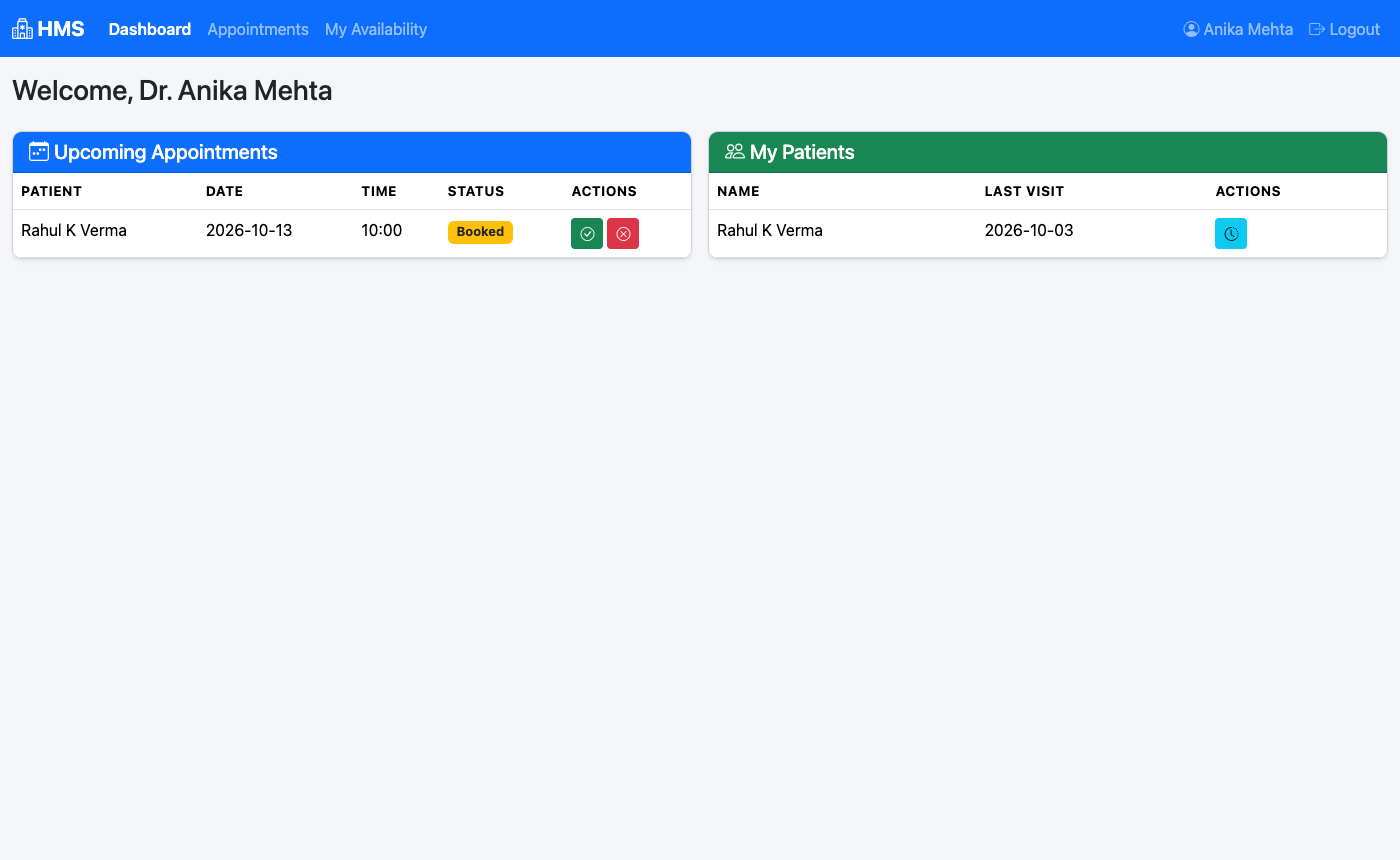
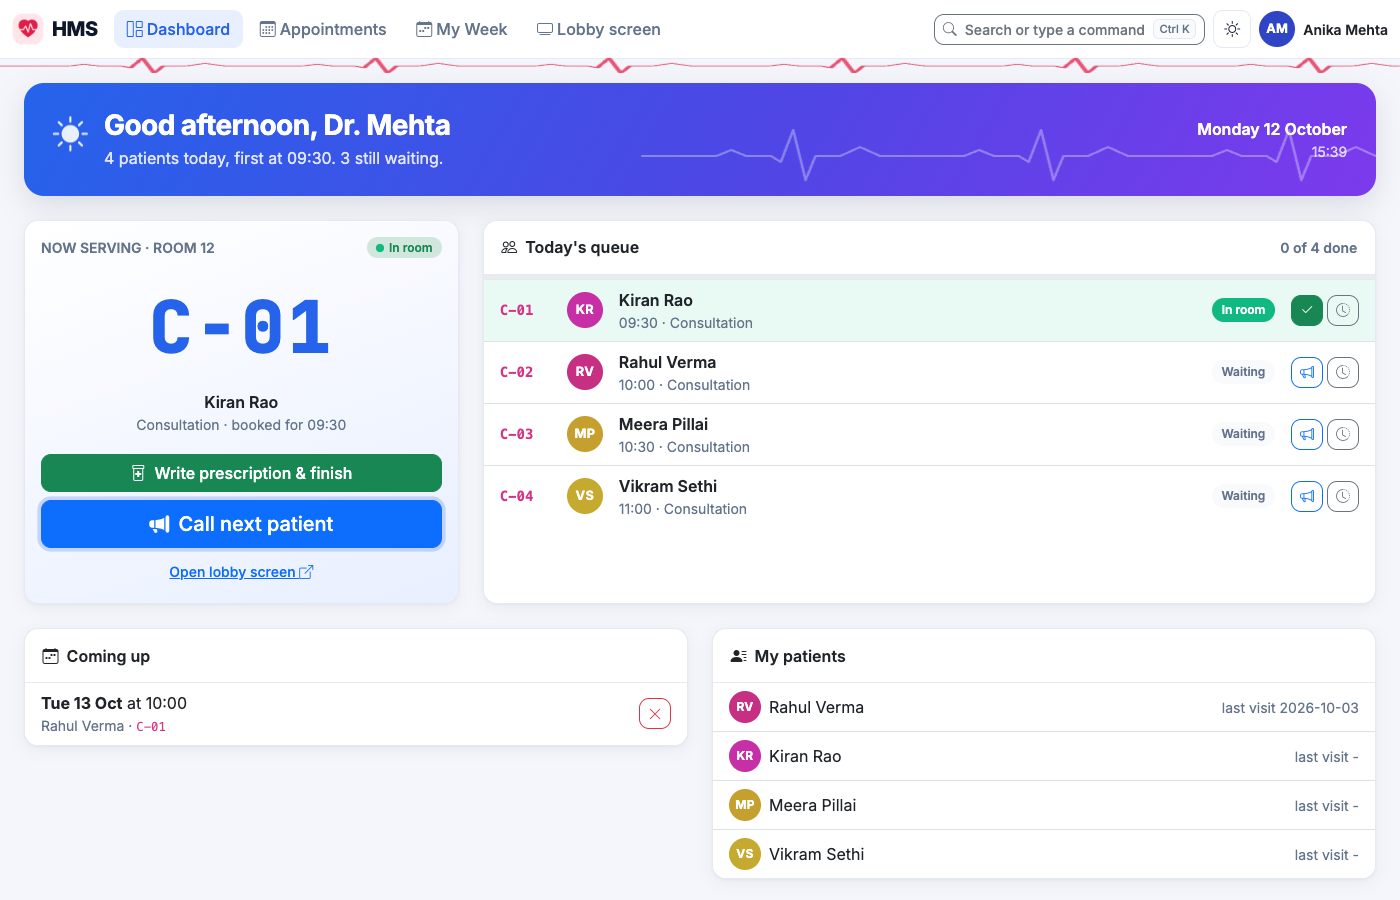
update readme with demo gifs and new screenshots

diff --git a/README.md b/README.md
@@ -7,70 +7,98 @@
 ![Redis](https://img.shields.io/badge/Redis-cache%20%2B%20broker-DC382D?logo=redis&logoColor=white)
 ![Celery](https://img.shields.io/badge/Celery-background%20jobs-37814A?logo=celery&logoColor=white)
 
-A full-stack hospital management app where **admins** manage doctors and patients, **doctors** publish their availability and record treatments, and **patients** find a doctor, book a slot and keep track of their medical history.
+A hospital app that follows a visit from **symptom to seat**. A patient taps where it hurts, books a free slot, gets a boarding-pass style ticket with a QR code, and watches their place in the queue live. On the day, the waiting-room TV flips their token up like an airport board when the doctor calls them in.
 
-This is version 2 of my Hospital Management System. The first version was a classic server-rendered Flask app. V2 rebuilds it as a **single-page app**: a Vue 3 frontend talking to a Flask REST API with JWT auth, Redis caching and Celery jobs for reminders, monthly reports and CSV exports.
+It has three roles. **Patients** book and track visits, **doctors** paint their weekly hours, run their queue and write prescriptions, and **admins** manage everyone. The frontend is a Vue 3 single-page app talking to a Flask REST API, with JWT auth, Redis caching and Celery jobs for reminders, monthly reports and CSV exports.
 
 <p align="center">
-  <img src="docs/screenshots/patient-dashboard.png" alt="Patient dashboard" width="900">
+  <img src="docs/demo/booking-flow.gif" alt="Booking from the body map to the boarding pass" width="880">
 </p>
 
-## Features
+## Highlights
 
-**Admin**
-- Dashboard with live counts of doctors, patients and appointments by status
-- Add, edit, deactivate and reactivate doctors
-- Search across doctors, patients and departments
-- View any patient's full treatment history and deactivate accounts
+| | |
+|---|---|
+| 🧍 **"Where does it hurt?"** | Patients tap a region on a body map and pick a symptom, and the app suggests the right department (knee → Orthopedics, chest pain → Cardiology, anything for a child → Pediatrics) and shows who's free. |
+| 🎫 **Boarding-pass tickets** | Every booking gets a token like `C-04`, a QR code and a gate (room). Tap the pass to flip it for prep notes. On the day it shows *"Now serving C-02 · 1 ahead of you · ~15 min"* and lights up when it's your turn. |
+| 📺 **Lobby "Now Serving" screen** | A full-screen board for the waiting-room TV at `/lobby`. When a doctor calls the next patient, the token appears full-screen and then flips into place split-flap style, with an optional chime and spoken announcement. No patient names are shown. |
+| 💓 **Heartbeat branding** | An ECG line runs under the navbar and spikes when something happens (a booking, a patient called). Loaders draw an ECG trace and the logo beats. |
+| 🗓 **Paint your week** | Doctors drag across a weekly calendar grid to set their hours, with presets for weekdays and mornings. Patients see each doctor's week as a heatmap of free slots, and a slot booked by someone else while you're looking fades out as *just taken*. |
+| ℞ **Prescription pad** | Treatments are written on a letterhead pad. Signing draws the doctor's signature in handwriting, and patients can open any prescription and save it as a PDF. |
+| 🚇 **Health journey map** | A patient's history is a subway-style line with one station per visit, coloured by department. Tap a station to see the diagnosis and prescription. |
+| ⌨ **Command palette + voice** | Press <kbd>Ctrl</kbd>+<kbd>K</kbd> and type (or say) things like *"book cardiology tomorrow at 2pm"*, *"cancel my next"*, *"call next"*, *"add slot friday 9-1"* or *"patient meera"*. |
+| ✨ **Small touches** | A time-of-day greeting (*"Good morning, Dr. Mehta, 6 patients today, first at 9:30"*), an auto/light/dark theme that follows the clock, count-up stats, toast notifications, page transitions, and confetti when a doctor finishes their last patient. All motion switches off for people who prefer reduced motion. |
 
-**Doctor**
-- See upcoming appointments and the list of their own patients
-- Open availability slots for the next 7 days (patients can only book inside them)
-- Complete an appointment by recording diagnosis, prescription, notes and next visit
-- Monthly activity report emailed on the 1st of every month
-
-**Patient**
-- Register, log in and manage their profile and password
-- Browse departments, search doctors and see their open slots
-- Book, reschedule and cancel appointments, with clash checks on both sides
-- Full treatment history with one-click **CSV export** (runs as a Celery job)
-- Morning reminder email on the day of an appointment
+<p align="center">
+  <img src="docs/demo/lobby-screen.gif" alt="Doctor calls the next patient and the lobby board flips" width="880">
+</p>
 
 ## Screenshots
 
-| Admin dashboard | Booking a slot |
+| Patient dashboard with live tickets | Where does it hurt? |
 |---|---|
-| ![Admin dashboard](docs/screenshots/admin-dashboard.png) | ![Booking](docs/screenshots/booking.png) |
-| **Doctor dashboard** | **Recording a treatment** |
-| ![Doctor dashboard](docs/screenshots/doctor-dashboard.png) | ![Treatment](docs/screenshots/treatment.png) |
-| **Treatment history + CSV export** | **Doctor availability** |
-| ![History](docs/screenshots/patient-history.png) | ![Availability](docs/screenshots/doctor-availability.png) |
+| ![Patient dashboard](docs/screenshots/patient-dashboard.png) | ![Body map](docs/screenshots/body-map.png) |
+| **Week heatmap and slot picker** | **A slot taken by someone else, live** |
+| ![Slot picker](docs/screenshots/slot-picker.png) | ![Just taken](docs/screenshots/just-taken.png) |
+| **Doctor's queue** | **End of the day** |
+| ![Doctor dashboard](docs/screenshots/doctor-dashboard.png) | ![Doctor done](docs/screenshots/doctor-done.png) |
+| **Writing a prescription** | **Paint your week** |
+| ![Prescription](docs/screenshots/rx-signing.png) | ![Paint week](docs/screenshots/paint-week.png) |
+| **Health journey** | **Command palette** |
+| ![Journey](docs/screenshots/journey.png) | ![Palette](docs/screenshots/palette.png) |
+| **Lobby screen** | **Admin, dark mode** |
+| ![Lobby](docs/screenshots/lobby.png) | ![Admin dark](docs/screenshots/admin-dark.png) |
 
 <details>
-<summary>Login and mobile view</summary>
+<summary>More: login, ticket back, booking confirmation, prescription view, mobile</summary>
 
 <p>
-  <img src="docs/screenshots/login.png" alt="Login" width="600">
-  <img src="docs/screenshots/mobile-dashboard.png" alt="Mobile" width="260">
+  <img src="docs/screenshots/login.png" alt="Login" width="640">
+  <img src="docs/screenshots/booked.png" alt="Booked" width="640">
+  <img src="docs/screenshots/rx-view.png" alt="Prescription view" width="640">
+  <img src="docs/screenshots/ticket-back.png" alt="Ticket back" width="480">
+  <img src="docs/screenshots/mobile-dashboard.png" alt="Mobile dashboard" width="240">
+  <img src="docs/screenshots/mobile-bodymap.png" alt="Mobile body map" width="240">
 </p>
 </details>
+
+## Everything each role can do
+
+**Patient**
+- Register, log in, edit their profile and change their password
+- Find a doctor from the body map or browse by department, with each doctor's next free slot shown on their card
+- Book, reschedule and cancel, with clash checks on both the doctor's and the patient's side
+- Live tickets with queue position and QR code, a health journey map, prescriptions as PDF, and a CSV export of their history (runs as a Celery job)
+- A reminder email on the morning of an appointment
+
+**Doctor**
+- A live queue for today: call the next patient (or a specific one), finish visits with a prescription, and see how much of the day is done
+- Paint availability for the next 7 days and see booked appointments on the same grid
+- Open the full history of any patient who has booked with them
+- A monthly activity report by email on the 1st of every month
+
+**Admin**
+- Dashboard with live counts and status breakdowns
+- Add, edit, deactivate and reactivate doctors (including their room)
+- Search doctors, patients and departments, open any patient's journey, and deactivate accounts
 
 ## Tech stack
 
 | Layer | Tools |
 |---|---|
-| Frontend | Vue 3 (CDN, no build step), Bootstrap 5, Bootstrap Icons |
+| Frontend | Vue 3 (CDN, no build step), Bootstrap 5, Bootstrap Icons, qrcodejs, canvas-confetti, Web Speech API |
 | Backend | Flask 3, Flask-SQLAlchemy, Flask-JWT-Extended, Flask-Caching, Flask-Mail |
 | Database | SQLite by default (any SQLAlchemy URL works through `DATABASE_URL`) |
 | Cache | Redis, with an automatic in-memory fallback when Redis isn't running |
 | Background jobs | Celery + Celery Beat with Redis as the broker |
-| Tests | pytest (43 tests), run on every push with GitHub Actions |
+| Tests | pytest (53 tests), run on every push with GitHub Actions |
 
 ## How it fits together
 
 ```mermaid
 flowchart LR
-    UI["Vue 3 SPA<br/>(static/js)"] -- "REST + JWT" --> API["Flask API<br/>(api.py)"]
+    UI["Vue 3 SPA<br/>(static/js)"] -- "REST + JWT" --> API["Flask API<br/>(api.py, api_live.py)"]
+    TV["Lobby screen<br/>(/lobby)"] -- "polls /api/lobby" --> API
     API --> DB[("SQLite<br/>SQLAlchemy")]
     API <--> C[("Redis<br/>cache")]
     API -- "export job" --> Q[("Redis<br/>broker")]
@@ -79,6 +107,8 @@ flowchart LR
     W --> DB
     W --> M["Email<br/>(Flask-Mail)"]
 ```
+
+The live parts (tickets, the doctor's queue, the slot picker and the lobby board) poll small JSON endpoints every few seconds, so they work without WebSockets.
 
 ## Getting started
 
@@ -91,17 +121,22 @@ python -m venv venv
 source venv/bin/activate          # Windows: venv\Scripts\activate
 pip install -r requirements.txt
 
-python seed_demo.py               # optional: demo doctors, patients and appointments
-python app.py                     # http://localhost:5000
+python seed_demo.py               # demo doctors, patients, a live queue for today and past visits
+python app.py                     # http://localhost:5000  (lobby screen at /lobby)
 ```
 
-The database and the default admin account are created on first run.
+The database and the default admin account are created on first run. Older databases get the new columns added automatically.
 
 | Account | Username | Password |
 |---|---|---|
 | Admin | `admin` | `admin123` |
 | Doctors (demo data) | `dr.mehta`, `dr.sharma`, `dr.iyer`, `dr.khan`, `dr.gill`, `dr.nair` | `demo123` |
-| Patients (demo data) | `rahul`, `sneha`, `amit`, `priya` | `demo123` |
+| Patients (demo data) | `rahul`, `sneha`, `amit`, `priya`, `kiran`, `meera`, `vikram`, `ananya` | `demo123` |
+
+**Try this:**
+1. Open `/lobby` in one window.
+2. Log in as `dr.mehta` in another window and press **Call next patient**. The board flips.
+3. Log in as `rahul` to see his ticket update to *"It's your turn"*.
 
 ### With Redis and Celery
 
@@ -126,11 +161,20 @@ pip install -r requirements-dev.txt
 pytest
 ```
 
-The tests cover login and registration, booking rules (availability, double booking, past dates, rescheduling), role permissions for every endpoint, cache invalidation and the background tasks. They use an in-memory database and never touch your real Redis.
+The tests cover:
+- login and registration
+- booking rules (availability, double booking, past dates, rescheduling)
+- queue tokens and calling patients in
+- the lobby feed (including that it never exposes patient names)
+- free-slot and weekly availability endpoints
+- role permissions for every endpoint
+- cache invalidation and the background tasks
+
+They use an in-memory database and never touch your real Redis.
 
 ## API overview
 
-All routes are under `/api` and, apart from login and register, need an `Authorization: Bearer <token>` header.
+All routes are under `/api`. Apart from login, register and the lobby feed, they need an `Authorization: Bearer <token>` header.
 
 | Method | Route | Who |
 |---|---|---|
@@ -141,11 +185,16 @@ All routes are under `/api` and, apart from login and register, need an `Authori
 | GET | `/doctors?search=&department_id=` | logged in |
 | POST, PUT, DELETE | `/doctors`, `/doctors/<id>` | admin |
 | GET | `/doctors/<id>/availability` | logged in |
+| GET | `/doctors/<id>/slots` | logged in (free 30-minute slots for the next week) |
 | POST, DELETE | `/doctors/<id>/availability[/<slot_id>]` | that doctor or admin |
+| PUT | `/doctors/<id>/availability/week` | that doctor or admin (replace whole days) |
 | GET | `/patients` | admin, or a doctor (only their own patients) |
 | GET | `/patients/<id>`, `/patients/<id>/history` | that patient, their doctor, or admin |
 | GET, POST | `/appointments` | patients see and book their own, doctors see theirs |
 | PUT | `/appointments/<id>`, `/appointments/<id>/cancel` | people involved in the appointment, or admin |
+| GET | `/appointments/<id>/queue` | people involved (live place in line) |
+| POST | `/queue/next` | doctor (call the next patient, or a specific one) |
+| GET | `/lobby` | anyone (tokens and rooms only, no names) |
 | POST | `/appointments/<id>/treatment` | the appointment's doctor or admin |
 | POST | `/patients/<id>/export` | that patient, their doctor, or admin |
 | GET | `/tasks/<task_id>`, `/download/<filename>` | whoever is allowed to see that export |
@@ -155,25 +204,29 @@ All routes are under `/api` and, apart from login and register, need an `Authori
 
 ```
 HMSV2/
-├── app.py              # app factory, error handlers, first-run seeding
+├── app.py              # app factory, error handlers, schema upgrades, /lobby page
 ├── api.py              # REST endpoints, validation and permission checks
+├── api_live.py         # queue tokens, call-next, lobby feed, slots, weekly availability
 ├── models.py           # SQLAlchemy models
 ├── config.py           # settings, all overridable from .env
 ├── extensions.py       # cache, JWT and mail instances
 ├── exports.py          # CSV export shared by the API and Celery
 ├── celery_worker.py    # Celery app + beat schedule
 ├── tasks.py            # reminders, monthly reports, CSV export job
-├── seed_demo.py        # demo data
-├── templates/index.html
+├── seed_demo.py        # demo data, including a live queue for today
+├── templates/
+│   ├── index.html      # the SPA shell
+│   └── lobby.html      # the waiting-room screen
 ├── static/
-│   ├── css/style.css
+│   ├── css/style.css   # design tokens, dark mode, animations
 │   └── js/
-│       ├── store.js    # shared state + API helper
+│       ├── store.js    # shared state, API helper, toasts, theme
 │       ├── app.js      # root component and routing
-│       └── components/ # dashboards, lists, modals
+│       └── components/ # body map, boarding pass, slot picker, palette, Rx pad, journey...
 ├── tests/              # pytest suite
 └── docs/
     ├── project-report.pdf
+    ├── demo/           # GIFs
     └── screenshots/
 ```
 
